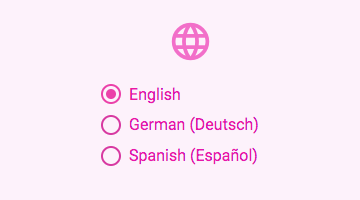
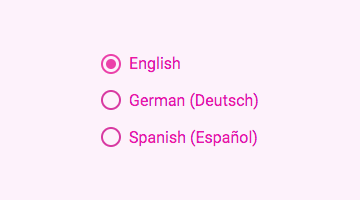
set scale on container (#802)

Changed region(s): [[0.275, 0.42, 0.7333, 0.84], [0.275, 0.09, 0.5806, 0.39]]

diff --git a/material.angular.io/scenes/src/app/app-routing.module.ts b/material.angular.io/scenes/src/app/app-routing.module.ts
@@ -41,7 +41,7 @@ const routes: SceneViewerRoute[] = [
   {path: 'chips', component: SceneViewer, data: {scene: ChipsScene}},
   {path: 'datepicker', component: SceneViewer, data: {scale: 0.8, scene: DatepickerScene}},
   {path: 'dialog', component: SceneViewer, data: {scene: PlaceHolderScene}},
-  {path: 'divider', component: SceneViewer, data: {scene: DividerScene}},
+  {path: 'divider', component: SceneViewer, data: {scale: 2, scene: DividerScene}},
   {path: 'expansion', component: SceneViewer, data: {scene: PlaceHolderScene}},
   {path: 'form-field', component: SceneViewer, data: {scene: PlaceHolderScene}},
   {path: 'grid-list', component: SceneViewer, data: {scene: PlaceHolderScene}},

diff --git a/material.angular.io/scenes/src/app/scene-viewer/scene-viewer.ts b/material.angular.io/scenes/src/app/scene-viewer/scene-viewer.ts
@@ -60,9 +60,10 @@ export class SceneViewer implements OnInit {
 
   ngOnInit() {
     const componentFactory = this.componentFactoryResolver.resolveComponentFactory(this.component);
-    const sceneComponent = this.scene.createComponent(componentFactory).location.nativeElement;
-    sceneComponent.style.transform = `scale(${this.scale})`;
-    sceneComponent.style.transformOrigin = 'center';
+    this.scene.createComponent(componentFactory);
+    const container = document.querySelector('#scene-content-container') as HTMLElement;
+    container.style.transform = `scale(${this.scale})`;
+    container.style.transformOrigin = 'center';
   }
 }
 

diff --git a/material.angular.io/scenes/e2e/src/app.e2e-spec.ts b/material.angular.io/scenes/e2e/src/app.e2e-spec.ts
@@ -7,7 +7,7 @@ describe('screenshot scenes for each component', () => {
   let page: AppPage;
 
   const components = ['input',
-                      'ripples',
+                      'ripple',
                       'slider',
                       'button-toggle',
                       'slide-toggle',
